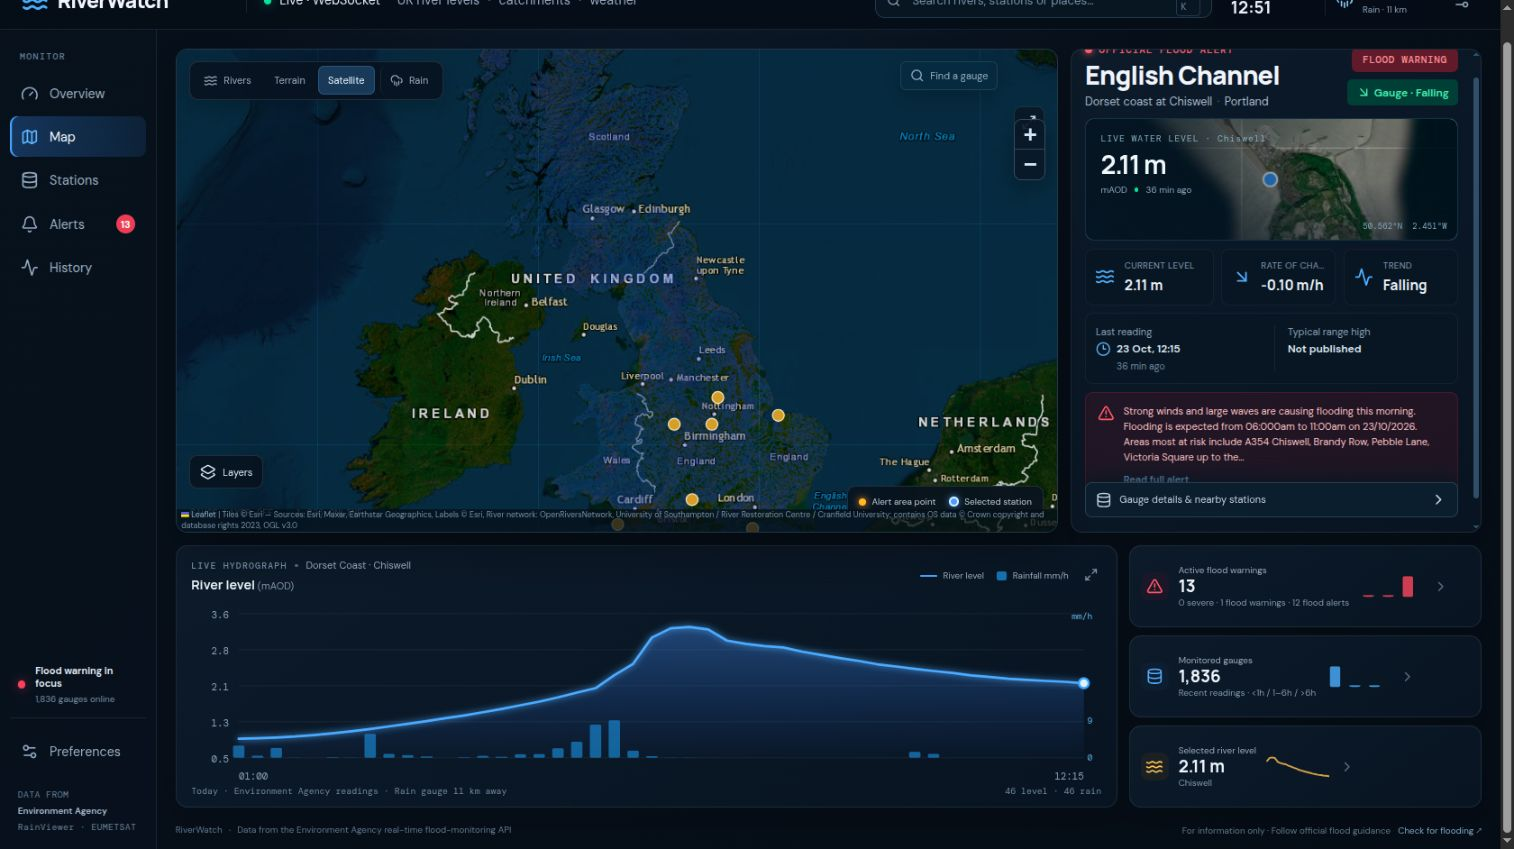
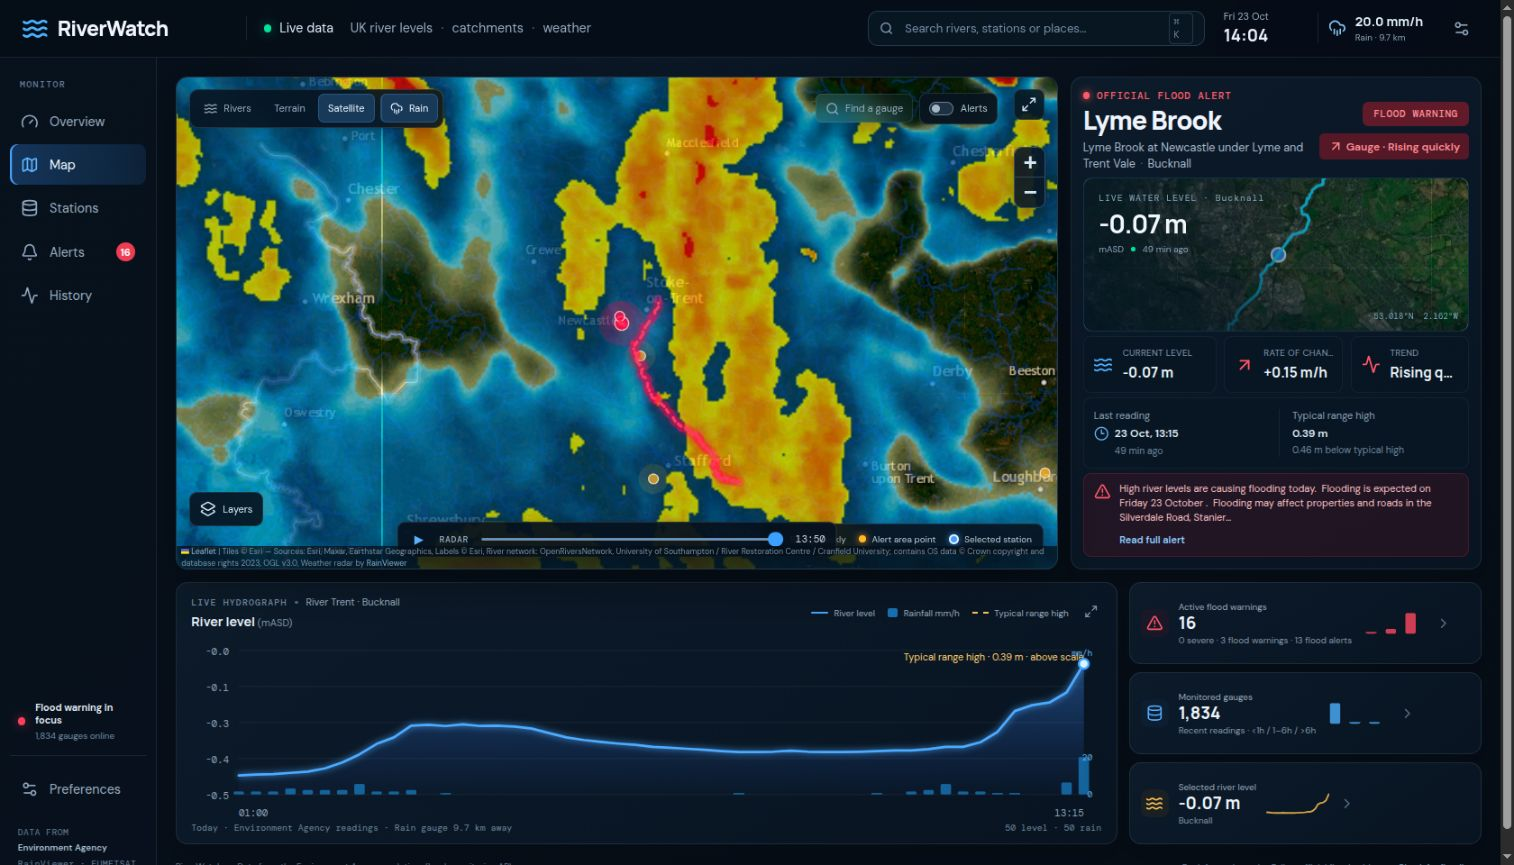
Improve mobile layout and default monitoring view

diff --git a/src/ui.jsx b/src/ui.jsx
@@ -134,15 +134,15 @@ function HistoryChart({ points, threshold, unit, rainfall }) {
 }
 
 function App() {
-  const [stations, setStations] = useState([]), [warnings, setWarnings] = useState([]), [selectedId, setSelectedId] = useState('2001'), [mapFocus, setMapFocus] = useState(null), [riverShape, setRiverShape] = useState(null), [alertPolygon, setAlertPolygon] = useState(null), [rainfall, setRainfall] = useState(null);
+  const [stations, setStations] = useState([]), [warnings, setWarnings] = useState([]), [selectedId, setSelectedId] = useState('2641'), [mapFocus, setMapFocus] = useState(null), [riverShape, setRiverShape] = useState(null), [alertPolygon, setAlertPolygon] = useState(null), [rainfall, setRainfall] = useState(null);
   const [providers, setProviders] = useState({ floodWarnings: 'loading', radar: 'loading', rainfall: 'loading' });
   const [measurements, setMeasurements] = useState({}), [history, setHistory] = useState([]), [rainFrames, setRainFrames] = useState([]), [rainIndex, setRainIndex] = useState(-1);
-  const [threshold, setThreshold] = useState(null), [query, setQuery] = useState(''), [layer, setLayer] = useState('satellite'), [radar, setRadar] = useState(false), [satellite, setSatellite] = useState(false), [radarOpacity, setRadarOpacity] = useState(0.72), [satelliteOpacity, setSatelliteOpacity] = useState(0.72), [riverOpacity, setRiverOpacity] = useState(0.4), [showGaugeMarkers, setShowGaugeMarkers] = useState(false);
+  const [threshold, setThreshold] = useState(null), [query, setQuery] = useState(''), [layer, setLayer] = useState('satellite'), [radar, setRadar] = useState(true), [satellite, setSatellite] = useState(false), [radarOpacity, setRadarOpacity] = useState(0.72), [satelliteOpacity, setSatelliteOpacity] = useState(0.72), [riverOpacity, setRiverOpacity] = useState(0.4), [showGaugeMarkers, setShowGaugeMarkers] = useState(false);
   const [loading, setLoading] = useState(true), [error, setError] = useState(''), [lastUpdate, setLastUpdate] = useState(null), [activeNav, setActiveNav] = useState('Map'), [playing, setPlaying] = useState(false), [cycleAlerts, setCycleAlerts] = useState(false), [fullMap, setFullMap] = useState(false), [showLayers, setShowLayers] = useState(false), [clock, setClock] = useState(new Date()), [socketStatus, setSocketStatus] = useState('connecting'), [focusedWarningId, setFocusedWarningId] = useState(null);
   const [showAlertMessage, setShowAlertMessage] = useState(false);
   const socketRef = useRef(null), initialFocusRef = useRef(false), focusedWarningIdRef = useRef(null), manualFocusRef = useRef(false), warningsRef = useRef([]);
 
-  const selected = stations.find(s => stationId(s) === selectedId) || stations.find(s => stationId(s) === '2001') || stations[0];
+  const selected = stations.find(s => stationId(s) === selectedId) || stations.find(s => stationId(s) === '2641') || stations[0];
   const selectedMeasure = selected?.levelMeasure;
   const currentReading = selected ? measurements[stationId(selected)] : null;
   const focusedWarning = warnings.find(w => (w.floodAreaID || w['@id']) === focusedWarningId) || null;
@@ -187,6 +187,7 @@ function App() {
     const primary = nextWarnings.find(w => Number(w.severityLevel) <= 3) || nextWarnings[0];
     const currentId = focusedWarningIdRef.current;
     const currentWarning = nextWarnings.find(w => (w.floodAreaID || w['@id']) === currentId);
+    const firstSnapshot = !initialFocusRef.current;
     const shouldFocusPrimary = primary && (
       !initialFocusRef.current ||
       (!manualFocusRef.current && (!currentWarning || Number(primary.severityLevel) < Number(currentWarning.severityLevel))) ||
@@ -204,9 +205,15 @@ function App() {
         ? { lat: Number(primary.lat), long: Number(primary.long) }
         : focusStation ? { lat: Number(focusStation.lat), long: Number(focusStation.long) } : { lat: 54.35, long: -3.3 };
       setMapFocus({ ...focusPoint, zoom: hasAlertLocation || focusStation ? 9.2 : 6, warningId: id });
+    } else if (firstSnapshot && rows.length) {
+      const homeStation = rows.find(s => stationId(s) === '2641') || rows[0];
+      setSelectedId(stationId(homeStation));
+      setMapFocus({ ...homeStation, zoom: 9.2 });
     } else if (currentId && !currentWarning && !primary) {
       focusedWarningIdRef.current = null; manualFocusRef.current = false;
-      setFocusedWarningId(null); setSelectedId('2001'); setMapFocus({ lat: 54.35, long: -3.3, zoom: 6 });
+      const homeStation = rows.find(s => stationId(s) === '2641') || rows[0];
+      setFocusedWarningId(null);
+      if (homeStation) { setSelectedId(stationId(homeStation)); setMapFocus({ ...homeStation, zoom: 9.2 }); }
     }
   }, []);
 

diff --git a/src/style.css b/src/style.css
@@ -128,6 +128,18 @@
 @media(prefers-reduced-motion:reduce){.leaflet-overlay-pane path.alert-marker-halo-primary,.leaflet-overlay-pane path.alert-marker-core-primary{animation:none}}
 .leaflet-overlay-pane path.river-current.rapid-rise{filter:drop-shadow(0 0 6px #ff4659)!important}
 .legend-rapid{height:3px!important;width:13px!important;border-radius:3px;background:#ff626e;box-shadow:0 0 7px #ff485d}
+@media(max-width:760px){
+  .map-card{height:42vh;min-height:310px}
+  .detail-header{display:flex;flex-direction:column;align-items:stretch;gap:8px}
+  .detail-header>div:first-child{min-width:0}
+  .alert-status-stack{display:flex;justify-items:start;justify-content:flex-start;align-items:center;flex-wrap:wrap;gap:6px}
+  .detail-header .severity-pill,.detail-header .trend-chip{white-space:normal}
+  .metric-row{grid-template-columns:repeat(3,minmax(0,1fr))}
+  .metric-card{min-height:60px;padding:7px 4px;gap:4px}
+  .metric-icon{width:18px;height:18px}
+  .metric-card span{font-size:7px;line-height:1.2;white-space:normal}
+  .metric-card b{font-size:11px;line-height:1.15;white-space:normal;overflow:visible;text-overflow:clip;overflow-wrap:anywhere}
+}
 .map-expanded .workspace{height:calc(100dvh - 58px);min-height:0;padding-bottom:10px}
 .map-expanded .map-only{height:auto;min-height:0;flex:1}
 .map-expanded .map-card{height:100%;min-height:0}

diff --git a/README.md b/README.md
@@ -36,7 +36,7 @@ The screenshots below show the dashboard on desktop and mobile. The original vis
 ## Dashboard
 
 - **UK map:** opens on a UK-wide view with the highest-severity active flood warning selected. Official warning-area points and selected gauge remain visible; the dense station layer is off by default and can be enabled in Layers. Select any warning to zoom into its area. A selected-river flow line and subdued Great Britain river network use published geometry. Search by station, river, catchment or town. Choose a dark map, terrain or satellite basemap.
-- **Weather layers:** toggle rainfall radar and animate recent frames. The separate Meteosat cloud layer shows near-real-time satellite imagery.
+- **Weather layers:** rainfall radar reflectivity starts on when the feed is available, and recent frames can be animated. The separate Meteosat cloud layer shows near-real-time satellite imagery.
 - **Gauge details:** latest measured level, recent rate of change, reading time and published typical-range high where the station supplies one.
 - **Hydrograph:** today's actual readings for the selected gauge, with bars for the nearest Environment Agency rainfall gauge when one is available within 30 km. The rainfall series is converted from its published accumulation interval to mm/h and identifies the gauge distance. The plotted river range follows the gauge readings; a typical-range reference outside that range is called out separately. Typical range is not a flood threshold.
 - **Official alerts:** current Environment Agency flood alerts and warnings, sorted by severity. The highest-severity active alert is focused on startup. Select any alert card or map point to fly to its published area coordinate and nearest reporting gauge.
